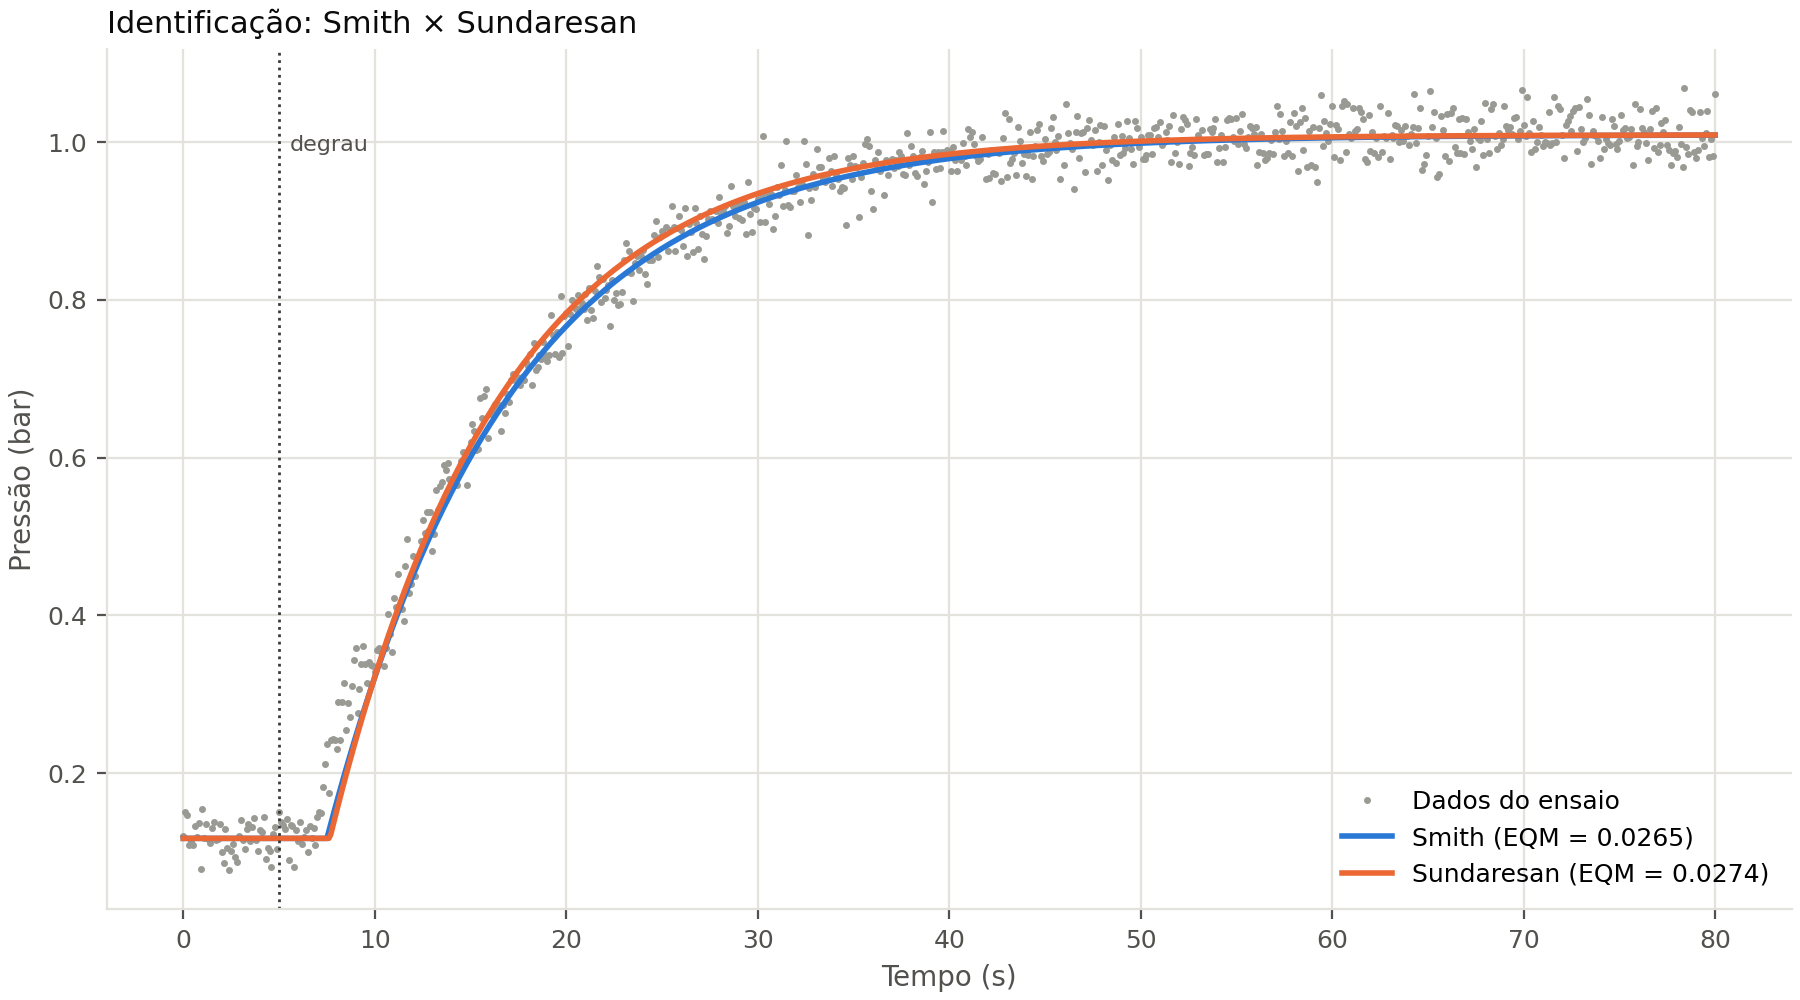
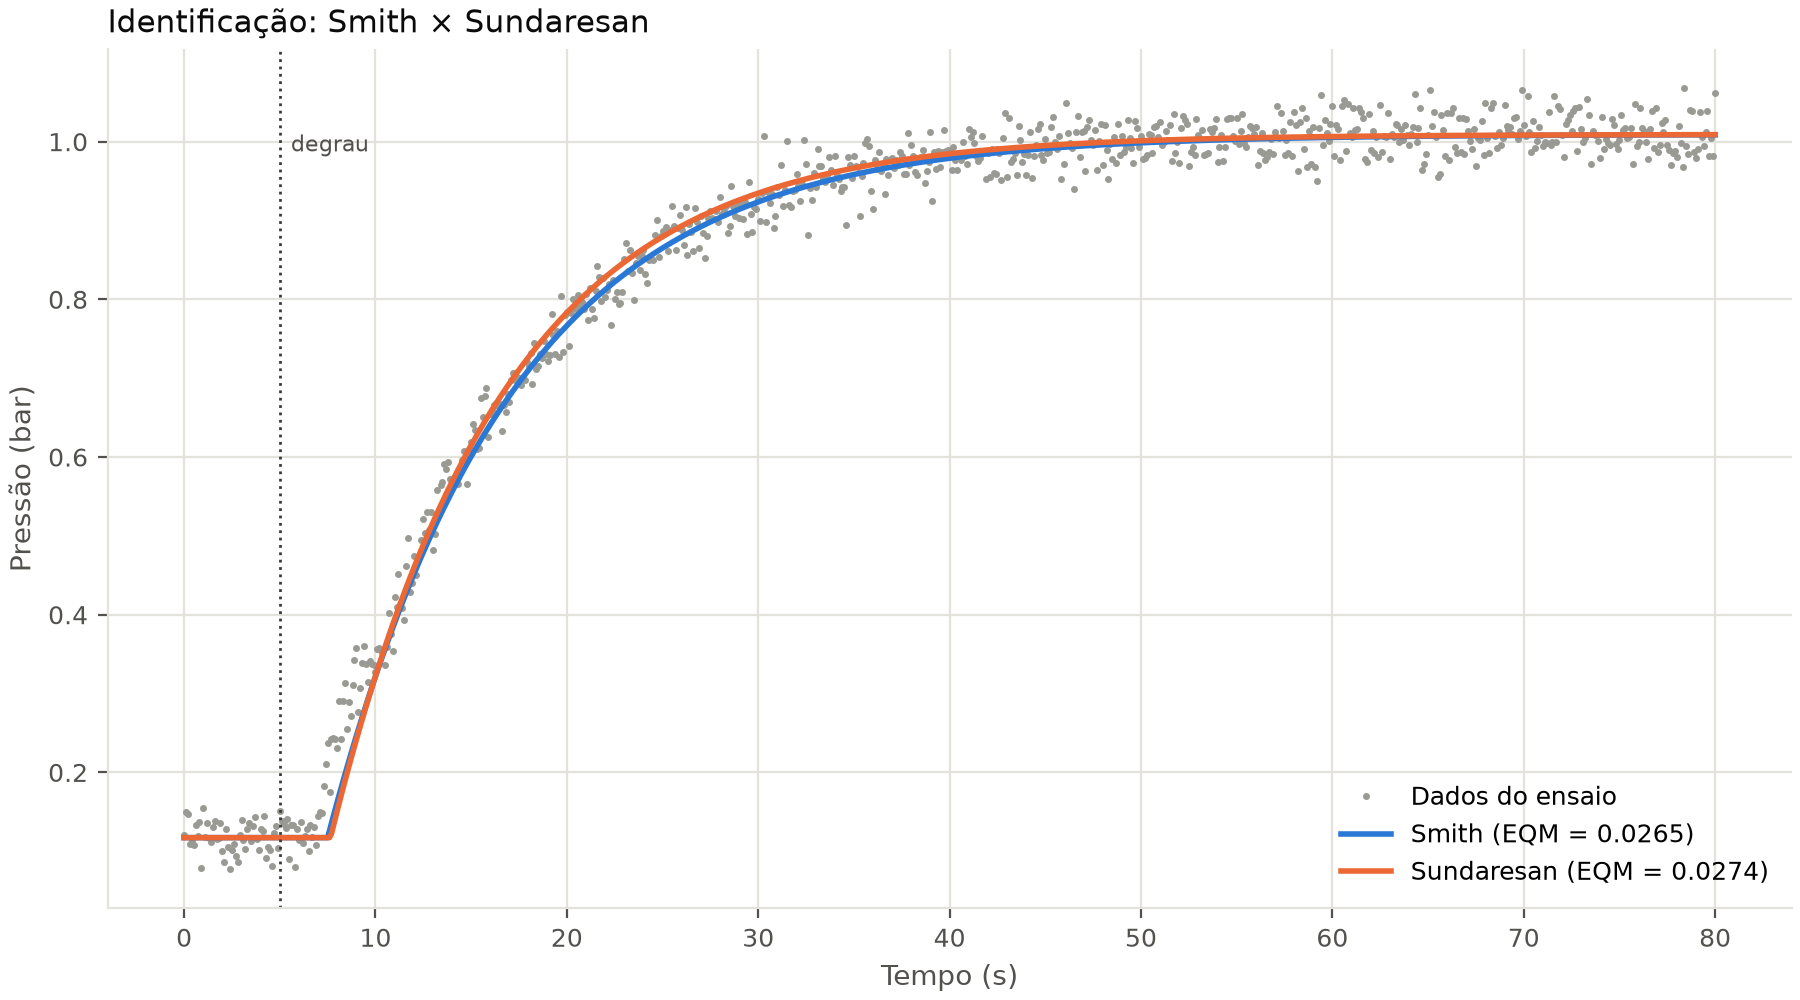
Usa Padé de 10ª ordem e regenera tabelas e figuras

diff --git a/src/config.py b/src/config.py
@@ -14,7 +14,7 @@ JANELA_SUAVIZACAO = 9      # amostras da média móvel usada para achar os cruza
 FRACAO_REGIME = 0.10       # fração final das amostras usada para estimar o valor final
 
 # Simulação
-ORDEM_PADE = 5             # ordem da aproximação de Padé do atraso
+ORDEM_PADE = 10            # ordem da aproximação de Padé do atraso (igual ao código base da disciplina)
 N_FILTRO_DERIVADA = 10     # filtro da ação derivativa: Td*s / (Td/N*s + 1)
 BANDA_ACOMODACAO = 0.02    # critério dos 2 %
 

diff --git a/README.md b/README.md
@@ -170,19 +170,19 @@ Usamos o mesmo degrau do ensaio como SetPoint, de 0,117 para 1,009 bar.
 
 | Técnica | Método | Kp (%/bar) | Ti (s) | Td (s) | tr (s) | ts (s) | Mp (%) |
 |---|---|---|---|---|---|---|---|
-| 2 | IMC (λ = 3,0 s) | 186,04 | 10,850 | 1,106 | 6,01 | 12,75 | 0,00 |
-| 6 | ITAE | 220,68 | 12,670 | 0,847 | 2,33 | 19,39 | 0,43 |
+| 2 | IMC (λ = 3,0 s) | 186,04 | 10,850 | 1,106 | 5,74 | 12,88 | 0,00 |
+| 6 | ITAE | 220,68 | 12,670 | 0,847 | 2,20 | 19,39 | 0,19 |
 
 Para o IMC o método exige λ/θ > 0,8. Perto desse limite a resposta é mais rápida,
 mas aparece overshoot. Testamos alguns valores:
 
 | λ/θ | 0,85 | 1,0 | 1,2 | 1,5 | 2,0 |
 |---|---|---|---|---|---|
-| Mp (%) | 5,7 | 0,0 | 0,0 | 0,0 | 0,0 |
-| ts (s) | 10,6 | 11,0 | 12,8 | 16,1 | 20,8 |
+| Mp (%) | 9,2 | 0,0 | 0,0 | 0,0 | 0,0 |
+| ts (s) | 10,5 | 11,1 | 12,9 | 16,1 | 20,8 |
 
 Escolhemos λ = 1,2·θ = 3,0 s. A regra do método é ts ≈ 4λ, ou seja 12 s; o ts
-simulado foi 12,8 s. Com λ/θ = 1 o overshoot já some na simulação com Padé,
+simulado foi 12,9 s. Com λ/θ = 1 o overshoot já some na simulação com Padé,
 mas ainda aparece 0,69 % quando simulamos com o atraso. Com
 1,2 ele é zero nos dois casos, e subir mais que isso só deixa a resposta lenta.
 
@@ -211,10 +211,10 @@ A tabela acima usa o modelo de Smith, que é o resultado do método pedido. O aj
 
 | Modelo | Método | λ (s) | Kp (%/bar) | Ti (s) | Td (s) | tr (s) | ts (s) | Mp (%) |
 |---|---|---|---|---|---|---|---|---|
-| Smith | IMC | 3,00 | 186,04 | 10,850 | 1,106 | 6,01 | 12,75 | 0,00 |
-| Smith | ITAE | 3,00 | 220,68 | 12,670 | 0,847 | 2,33 | 19,39 | 0,43 |
-| Ajuste fino | IMC | 2,02 | 281,59 | 11,110 | 0,777 | 4,00 | 8,58 | 0,00 |
-| Ajuste fino | ITAE | 2,02 | 325,50 | 13,303 | 0,589 | 1,70 | 13,76 | 0,00 |
+| Smith | IMC | 3,00 | 186,04 | 10,850 | 1,106 | 5,74 | 12,88 | 0,00 |
+| Smith | ITAE | 3,00 | 220,68 | 12,670 | 0,847 | 2,20 | 19,39 | 0,19 |
+| Ajuste fino | IMC | 2,02 | 281,59 | 11,110 | 0,777 | 3,86 | 8,64 | 0,00 |
+| Ajuste fino | ITAE | 2,02 | 325,50 | 13,303 | 0,589 | 1,57 | 13,76 | 0,00 |
 
 No modelo refinado os dois métodos zeram o overshoot. O IMC continua acomodando antes (8,6 s contra 13,8 s), então a escolha do grupo não muda. O ganho sobe (281 e 325 %/bar): o comando do motor satura ainda mais no início, e a ressalva da simulação linear vale com mais força.
 
@@ -222,12 +222,13 @@ No modelo refinado os dois métodos zeram o overshoot. O IMC continua acomodando
 
 ## Limitações
 
-A biblioteca `control` não tem atraso de transporte, então usamos a aproximação de
-Padé que o enunciado indica, de 5ª ordem. Ela cria uma oscilação pequena nos
-primeiros 2,5 s da resposta que não existe no processo. Para saber quanto isso afeta
-os números, o `scripts/validar_pade.py` simula a mesma malha passo a passo com o
-atraso exato. Nas sintonias que usamos, tr e ts mudam menos de 0,3 s e o overshoot
-menos de 1 ponto percentual. Em sintonias mais agressivas a diferença cresce.
+A biblioteca `control` não tem atraso de transporte, então o atraso é representado
+pela aproximação de Padé de 10ª ordem, a mesma usada no código base da disciplina
+(`cnt.pade(theta, 10)`). Ela cria uma oscilação pequena nos primeiros 2,5 s da
+resposta que não existe no processo. Para saber quanto isso afeta os números, o
+`scripts/validar_pade.py` simula a mesma malha passo a passo com o atraso exato. Nas
+sintonias que usamos, tr e ts mudam menos de 0,05 s e o overshoot menos de 1 ponto
+percentual. Em sintonias mais agressivas a diferença cresce.
 
 ![Padé contra atraso exato](resultados/figuras/08_validacao_pade.png)
 
